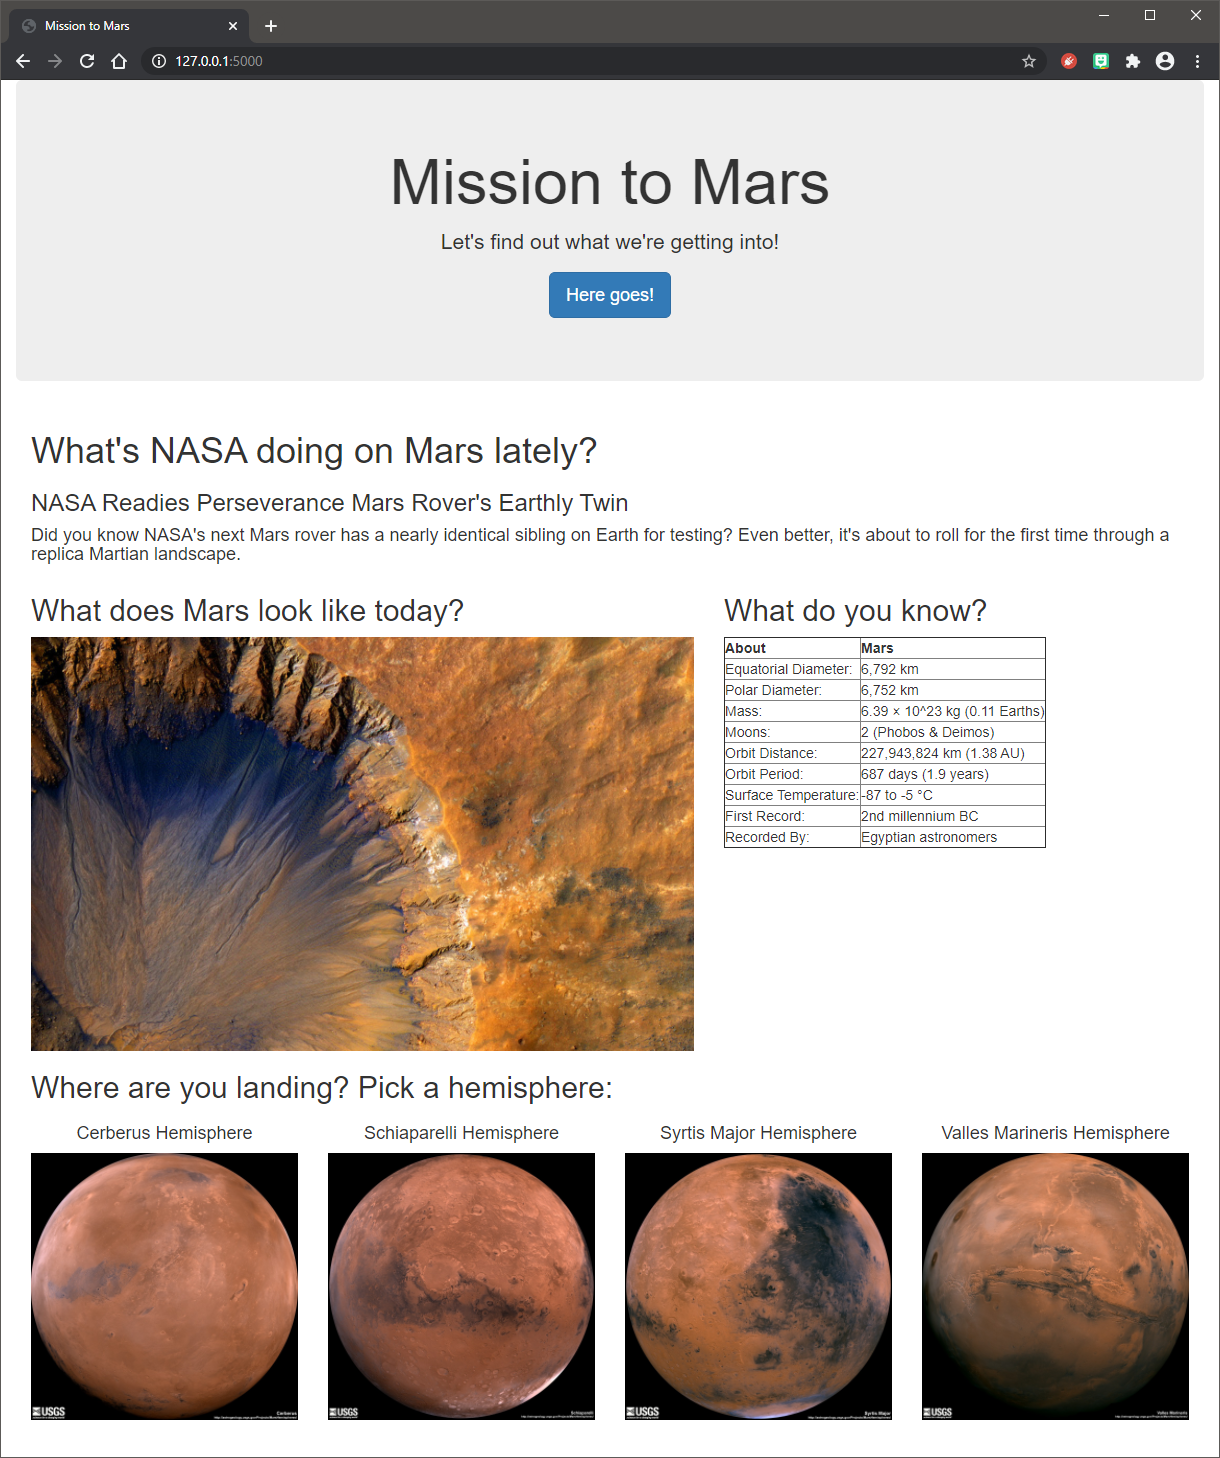
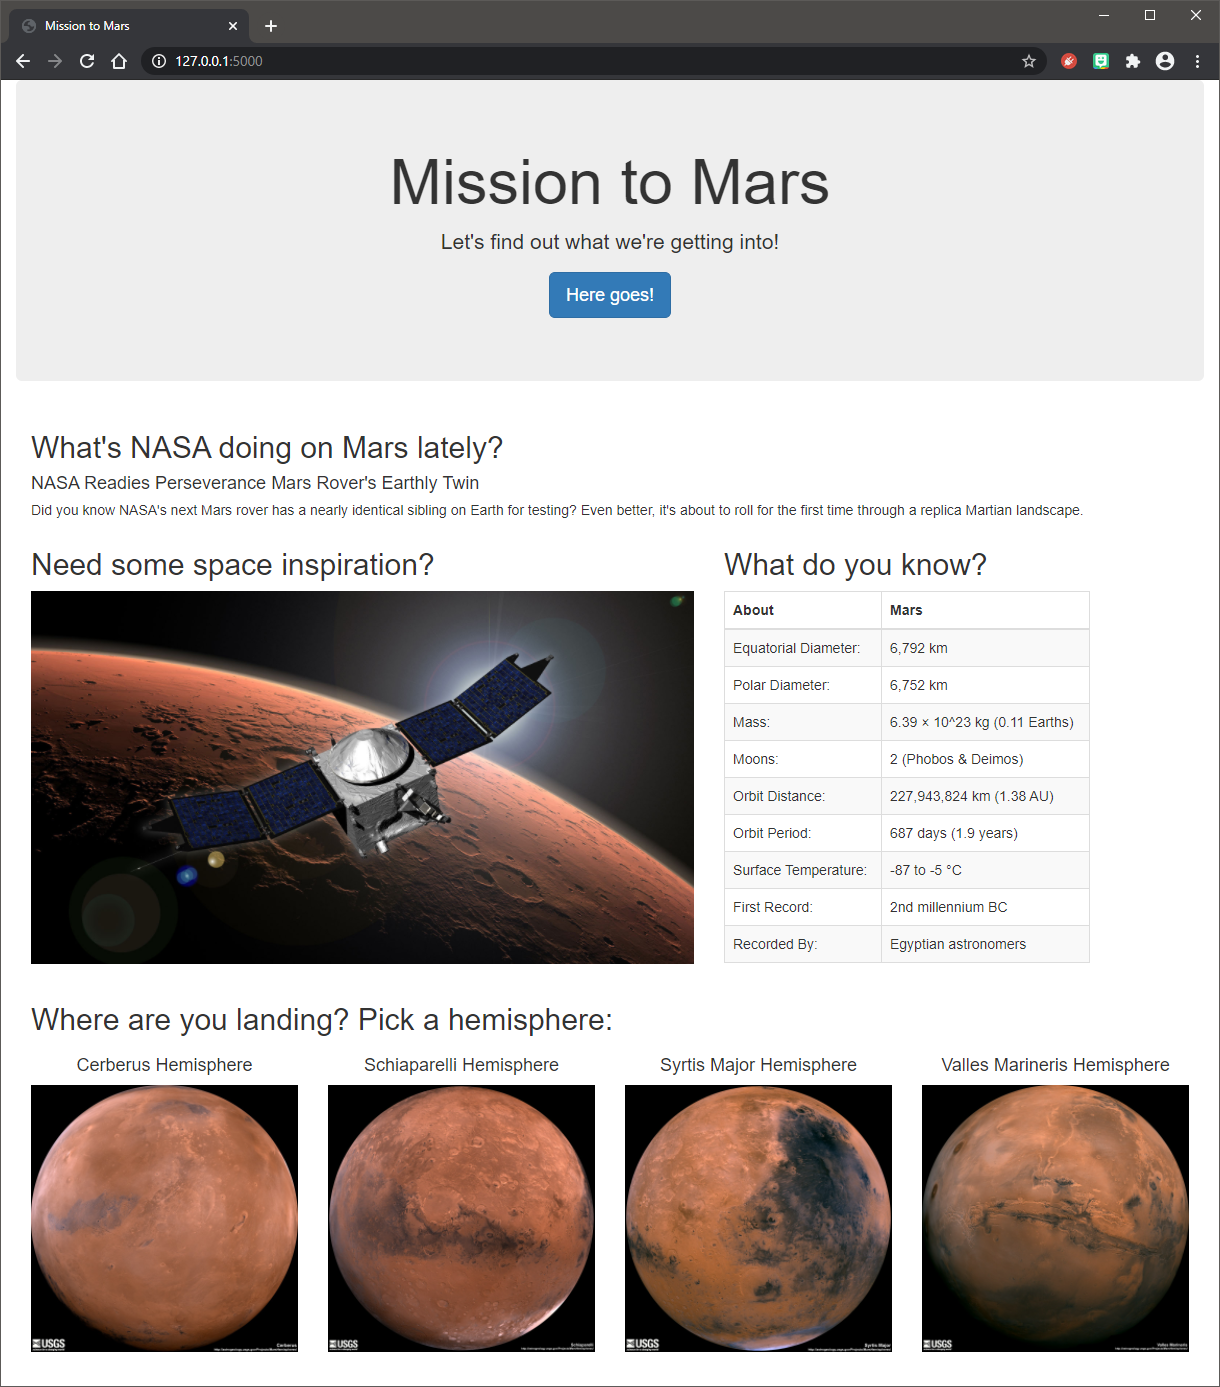
Updated table formatting.

diff --git a/templates/index.html b/templates/index.html
@@ -18,12 +18,12 @@
         <p><a class="btn btn-primary btn-lg" href="/scrape" role="button">Here goes!</a></p>
       </div>
     <div class="col-md-12">
-    <h1>What's NASA doing on Mars lately?</h1>
-    <h3>{{ show.news_title }}</h3>
-    <h4>{{ show.news_teaser }}</h4>
+    <h2>What's NASA doing on Mars lately?</h2>
+    <h4>{{ show.news_title }}</h4>
+    <h5>{{ show.news_teaser }}</h5>
     </div>
     <div class="col-md-7">
-    <h2>What does Mars look like today?</h2>
+    <h2>Need some space inspiration?</h2>
     <img src = "{{ show.featured }}" alt="Featured image" width="100%">
     </div>
     <div class="col-md-4 offset-md-1">

diff --git a/scrape_mars.py b/scrape_mars.py
@@ -54,7 +54,7 @@ def scrape():
     facts_table = tables[0]
     facts_table = facts_table.rename(columns={0:"About",1:"Mars"})
 
-    facts_html = facts_table.to_html(index=False)
+    facts_html = facts_table.to_html(index=False, classes="table table-bordered table-striped")
     facts_html = facts_html.replace("text-align: right;","text-align: center;")
 
     # Mars Hemipsheres
